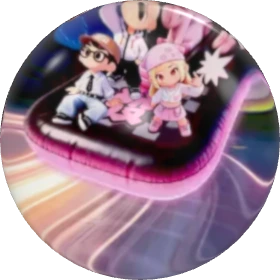
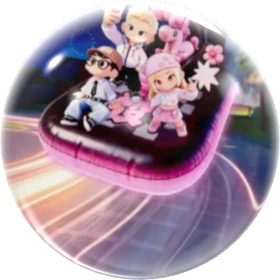
Refine login card transitions and update glass material preset

diff --git a/public/login/landing-v2.css b/public/login/landing-v2.css
@@ -1094,7 +1094,8 @@ input:focus-visible {
 
 .ai-grid.layout-accordion .ai-card.violet:not(.is-active) .card-art-video,
 .ai-grid.layout-accordion .ai-card.violet:not(.is-active) .card-art-poster {
-  transform: scale(1.22);
+  /* Keep the collapsed screen smaller and expose more space on its left. */
+  transform: translateX(20px) scale(1.29);
 }
 
 .ai-grid.layout-accordion .card-art-video,
@@ -1319,9 +1320,9 @@ input:focus-visible {
   padding: 35px 19px 15px 21px;
   border: 1px solid #fff;
   border-radius: 20px;
-  background: #fff;
-  -webkit-backdrop-filter: none;
-  backdrop-filter: none;
+  background: linear-gradient(180deg, rgba(255, 255, 255, 0.76) 0%, rgba(255, 255, 255, 0.9) 34%, #fff 65%);
+  -webkit-backdrop-filter: blur(16px) saturate(1.08);
+  backdrop-filter: blur(16px) saturate(1.08);
 }
 
 .ai-grid.layout-accordion .card-copy h3,
@@ -1371,12 +1372,12 @@ input:focus-visible {
   font-weight: 400;
   line-height: 22px;
   transform: none;
-  -webkit-mask-image: linear-gradient(to right, #000 50%, transparent 60%);
-  mask-image: linear-gradient(to right, #000 50%, transparent 60%);
-  -webkit-mask-size: 250% 100%;
-  mask-size: 250% 100%;
-  -webkit-mask-position: 100% 0;
-  mask-position: 100% 0;
+  -webkit-mask-image: linear-gradient(170deg, #000 44%, transparent 56%);
+  mask-image: linear-gradient(170deg, #000 44%, transparent 56%);
+  -webkit-mask-size: 250% 250%;
+  mask-size: 250% 250%;
+  -webkit-mask-position: 100% 100%;
+  mask-position: 100% 100%;
   -webkit-mask-repeat: no-repeat;
   mask-repeat: no-repeat;
 }
@@ -2817,4 +2818,25 @@ input:focus-visible {
   .login-card.legacy-login { top: 225px; }
   .motion-ready .login-card.legacy-login,
   .motion-ready.page-ready .login-card.legacy-login { transform: translate3d(-50%, 0, 0) scale(0.48); }
+}
+
+/* A single heading follows the card surface throughout the accordion transition. */
+.ai-grid.layout-accordion .card-copy h3 {
+  width: 100%;
+  opacity: 1;
+  transform: none;
+  transition: none;
+  will-change: auto;
+}
+
+/* Resting cards stay quiet; the expanded card retains the frosted color wash. */
+.ai-grid.layout-accordion .card-copy {
+  background-color: transparent;
+  transition: background-color 880ms var(--ease-out);
+}
+.ai-grid.layout-accordion .ai-card:not(.is-active) .card-copy {
+  background-color: rgba(255, 255, 255, 0.75);
+}
+@media (prefers-reduced-motion: reduce) {
+  .ai-grid.layout-accordion .card-copy { transition: none; }
 }

diff --git a/src/modules/creator-center/glass-settings.ts b/src/modules/creator-center/glass-settings.ts
@@ -19,23 +19,23 @@ export type GlassSettings = {
 }
 
 export const defaultGlassSettings: GlassSettings = {
-  tintColor: '#ffffff',
-  attenuationColor: '#ffffff',
-  transmission: 1,
-  ior: 1.14,
-  thickness: 0.75,
-  roughness: 0,
-  clearcoat: 0.54,
-  clearcoatRoughness: 0.17,
-  specularIntensity: 0.14,
-  envMapIntensity: 0.23,
-  dispersion: 0.04,
-  attenuationDistance: 0.1,
-  imageBrightness: 1.03,
-  imageSaturation: 1,
-  imageContrast: 1.11,
-  cssRimOpacity: 0.33,
-  cssRimBlur: 6.3,
+  "tintColor": "#ffffff",
+  "attenuationColor": "#ffffff",
+  "transmission": 1,
+  "ior": 1.01,
+  "thickness": 2,
+  "roughness": 0,
+  "clearcoat": 0.06,
+  "clearcoatRoughness": 0.145,
+  "specularIntensity": 0.58,
+  "envMapIntensity": 2,
+  "dispersion": 0.155,
+  "attenuationDistance": 7.7,
+  "imageBrightness": 1.02,
+  "imageSaturation": 1,
+  "imageContrast": 1.1,
+  "cssRimOpacity": 0,
+  "cssRimBlur": 6.3
 }
 
 export const glassSettingControls: { key: Exclude<keyof GlassSettings, 'tintColor' | 'attenuationColor'>; label: string; min: number; max: number; step: number; group: 'optics' | 'reflection' | 'image' }[] = [
@@ -56,7 +56,7 @@ export const glassSettingControls: { key: Exclude<keyof GlassSettings, 'tintColo
   { key: 'imageContrast', label: '视频对比度', min: 0.6, max: 1.5, step: 0.01, group: 'image' },
 ]
 
-const storageKey = 'creator-center-glass-settings-v5'
+const storageKey = 'creator-center-glass-settings-v6'
 
 export function loadGlassSettings(): GlassSettings {
   try {

diff --git a/public/login/landing-v2.js b/public/login/landing-v2.js
@@ -275,16 +275,7 @@
     video.classList.remove("is-fading-out");
     if (video.paused) video.play().catch(() => {});
   };
-  aiCards.forEach((card) => {
-    const title = card.querySelector(".card-copy h3");
-    if (!title) return;
-    const summary = document.createElement("div");
-    summary.className = "card-summary";
-    summary.setAttribute("aria-hidden", "true");
-    summary.append(...[...title.childNodes].map((node) => node.cloneNode(true)));
-    title.before(summary);
-  });
-  aiGrid?.classList.add("summaries-ready");
+  // Both accordion states share the original heading to avoid overlapping text.
   const aiAutoplayDelay = 5200;
   let activeAiIndex = 0;
   let aiAutoplayTimer = 0;
@@ -374,10 +365,10 @@
         description,
         {
           opacity: active ? 1 : 0,
-          maskPosition: active ? "0% 0" : "100% 0",
-          webkitMaskPosition: active ? "0% 0" : "100% 0",
-          duration: active ? duration * 0.9 : Math.min(duration, 0.16),
-          ease: active ? "power2.out" : "power2.in",
+          maskPosition: active ? "0% 0%" : "100% 100%",
+          webkitMaskPosition: active ? "0% 0%" : "100% 100%",
+          duration: active ? Math.max(0, duration - 0.04) : Math.min(duration, 0.16),
+          ease: active ? "none" : "power2.in",
         },
         active && duration ? 0.04 : 0,
       );
